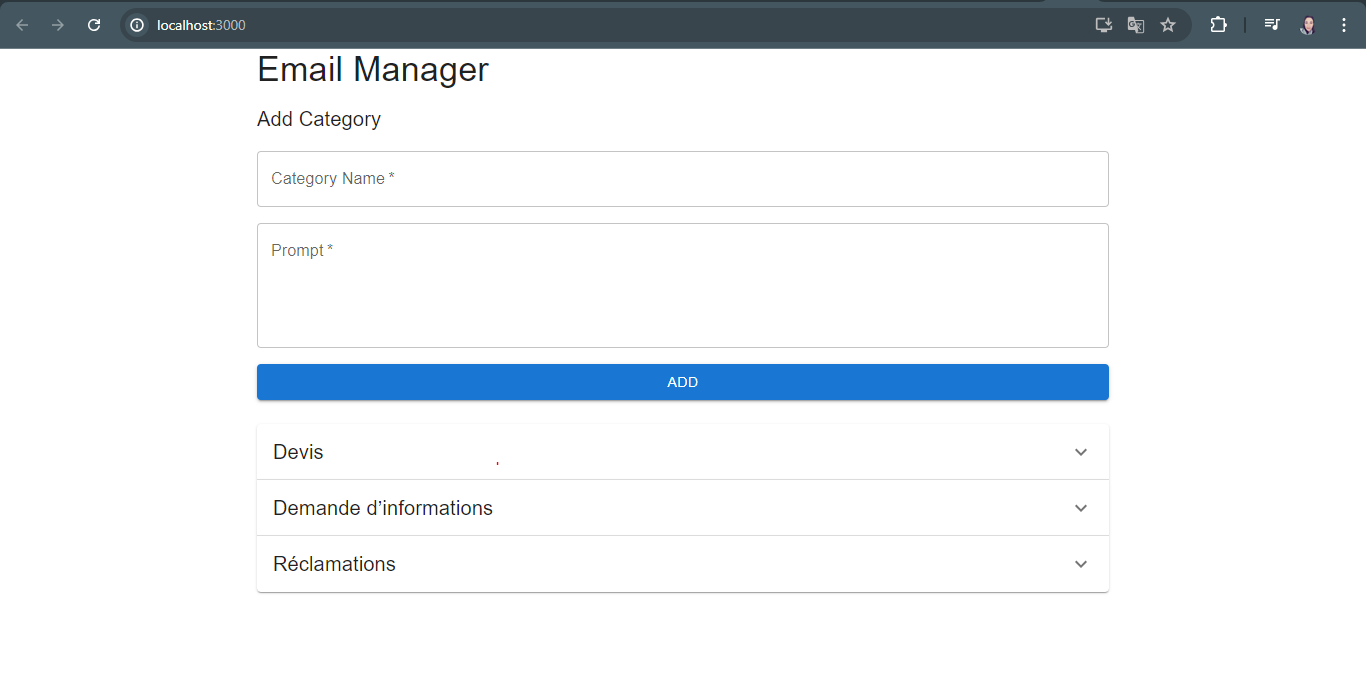
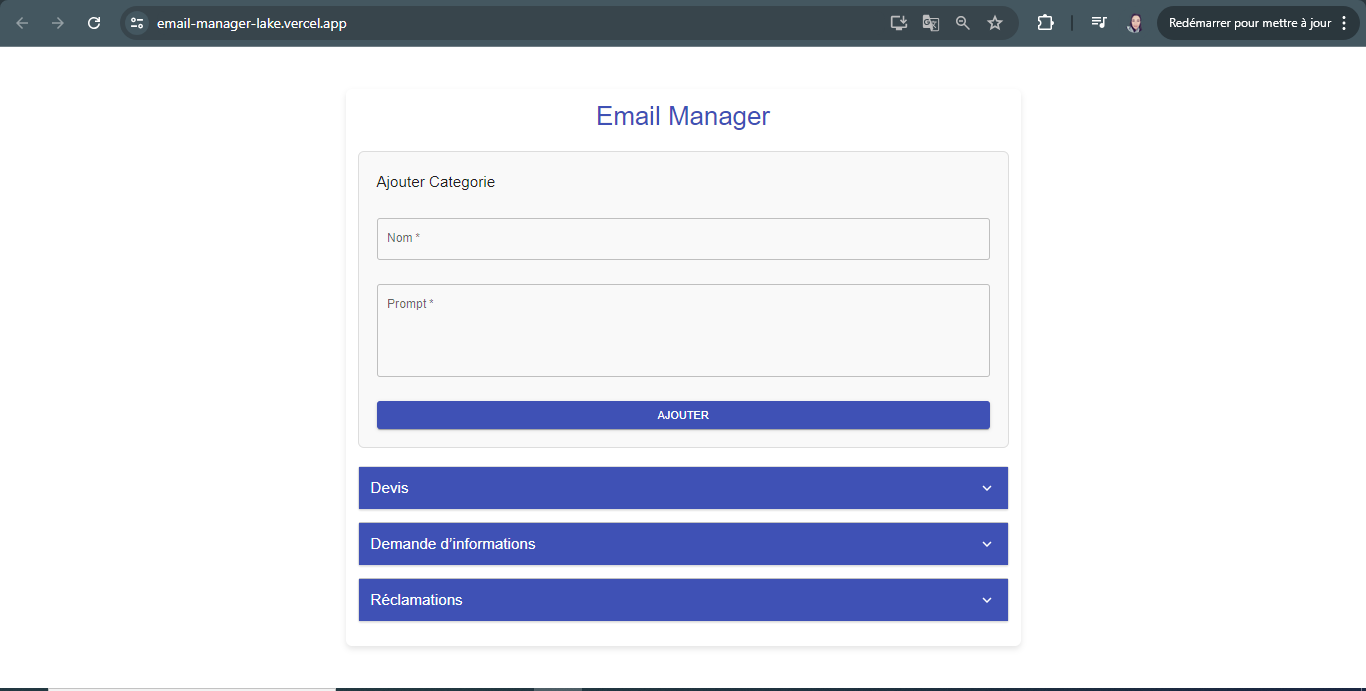
modifier les interfaces des applications

diff --git a/README.md b/README.md
@@ -5,3 +5,7 @@
 ### Detail pour chaque Category 
 
 ![2](./details.PNG)
+
+### Interface Modifier Category
+
+![3](./modifier_Category.PNG)
